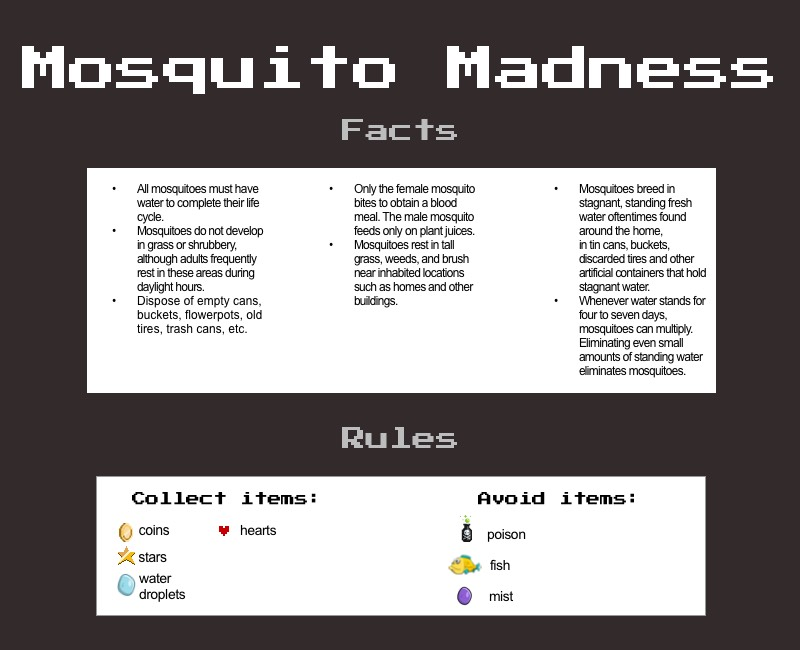
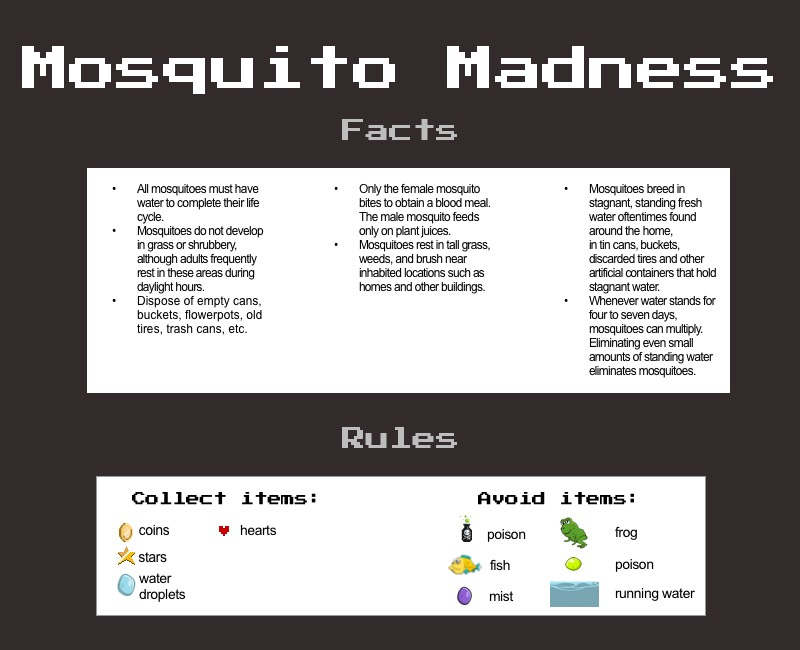
added additional spritesheets, worked on background image for the credits menu screen, fixed fonts.

Changed region(s): [[0.7188, 0.2462, 0.9375, 0.6154], [0.4375, 0.2769, 0.625, 0.4923], [0.6875, 0.8, 0.875, 0.9538]]

diff --git a/game.js b/game.js
@@ -24,6 +24,7 @@ let water;
 // add collectable
 function addItems() {
   items = game.add.physicsGroup();
+  createItem(200, 300, 'frog');
 }
 
 function addFish() {
@@ -130,7 +131,7 @@ window.onload = function() {
     game.load.spritesheet('fish', 'assets/loveFish.png', 24, 37.5);
     game.load.spritesheet('water', 'assets/watertiles.png', 900, 76);
     game.load.spritesheet('waterBlob', 'assets/waterBlog.png', 17.5, 14);
-    // game.load.spritesheet('gooBlob', 'assets/gooBlog.png', 17.5, 14);
+    game.load.spritesheet('frog', 'assets/frog.png', 40, 32);
   }
 
   //initial game set up
@@ -237,6 +238,7 @@ window.onload = function() {
     backgroundImage.tilePosition.x -= 1;
     backgroundWater.tilePosition.x -= 2;
     items.x -= 1;
+    fish.y -= 3;
     platforms.x -= 1;
 
     setTimeout(randomItems(), 5);
@@ -246,7 +248,7 @@ window.onload = function() {
   function randomItems() {
     let randomnumber = Math.floor(Math.random() * 6) - 1;
     if (randomnumber == -1) randomnumber = 0;
-    // if (randomnumber == 6) randomnumber = 0;
+    if (randomnumber == 6) randomnumber = 0;
     let y = Math.floor(Math.random() * 450 - 1);
     x += 175;
     createItem(x, y, itemString[randomnumber]);

diff --git a/menu/game/states/credits.js b/menu/game/states/credits.js
@@ -93,7 +93,7 @@ Credits.prototype = {
     //   musicPlayer = game.add.audio('exit');
     //   musicPlayer.play();
     // }
-    var bg = game.add.sprite(0, 0, 'gameover-bg');
+    var bg = game.add.sprite(50, 50, 'gameover-bg');
     this.addCredit('Developer', 'William Whatley');
     this.addCredit('Developer', 'Justin Linn');
     this.addCredit('Developer', 'Jose Campos');

diff --git a/menu/game/states/gamemenu.js b/menu/game/states/gamemenu.js
@@ -8,7 +8,7 @@ GameMenu.prototype = {
 
   init: function() {
     this.titleText = game.make.text(game.world.centerX, 100, '', {
-      font: 'bold 60pt serif',
+      font: 'bold 60pt "Press Start 2P"',
       fill: '#FDFFB5',
       align: 'center'
     });

diff --git a/menu/game/states/Game.js b/menu/game/states/Game.js
@@ -7,7 +7,7 @@ Game.prototype = {
 
   addMenuOption: function(text, callback) {
     var optionStyle = {
-      font: '30pt TheMinion',
+      font: '30pt "Press Start 2P"',
       fill: 'black',
       align: 'right'
     };
